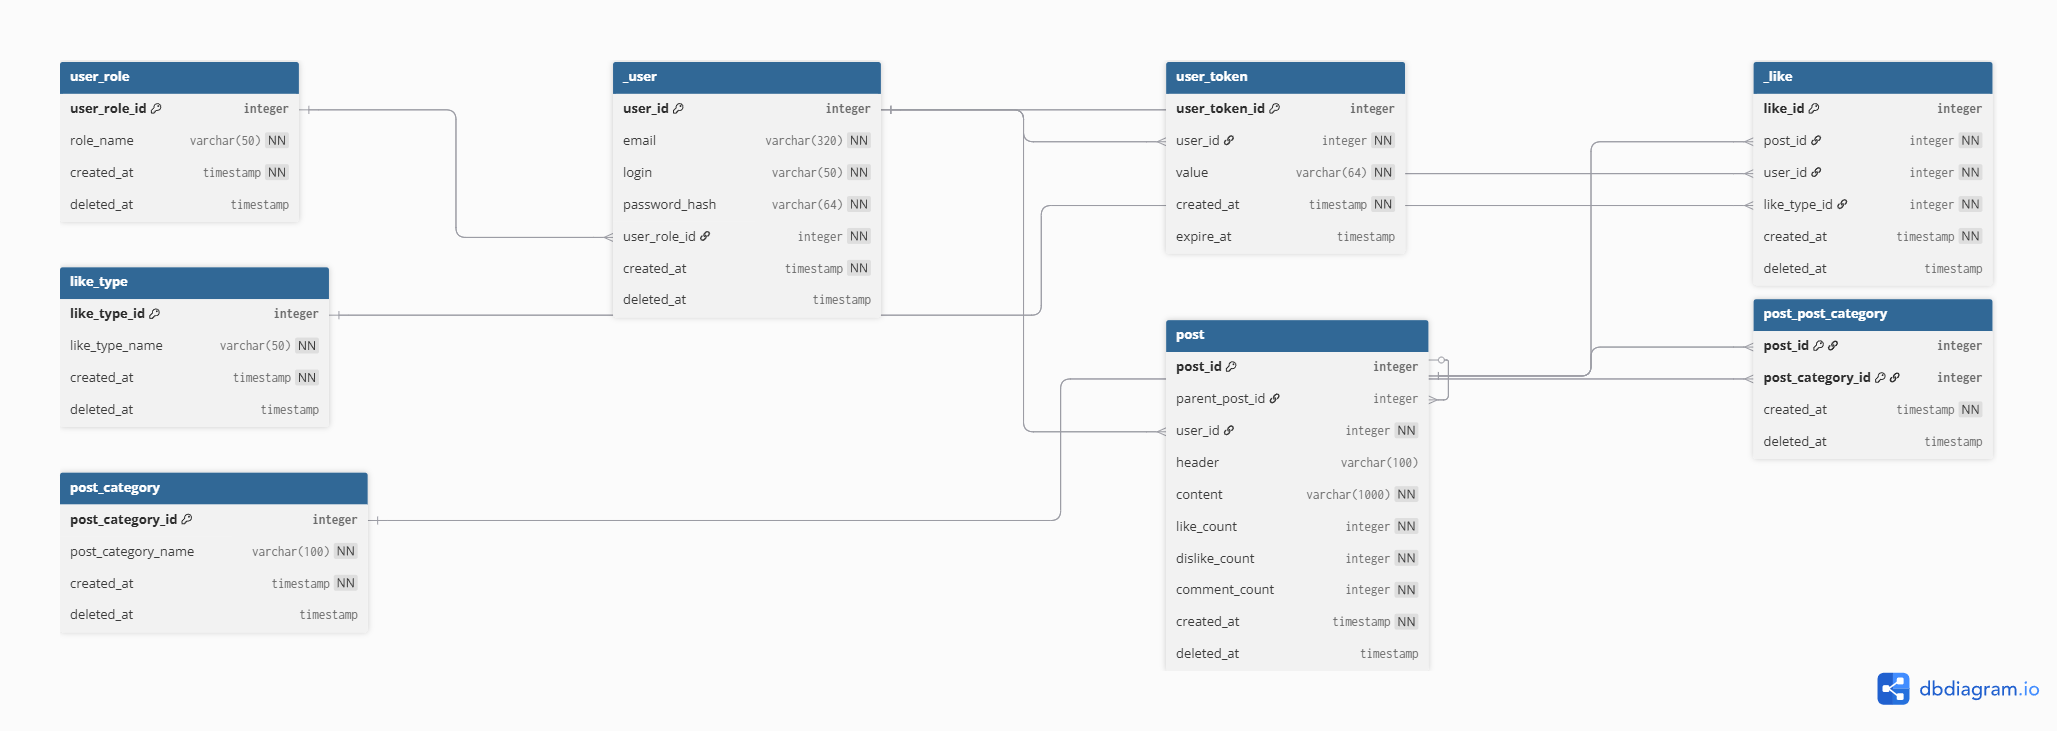
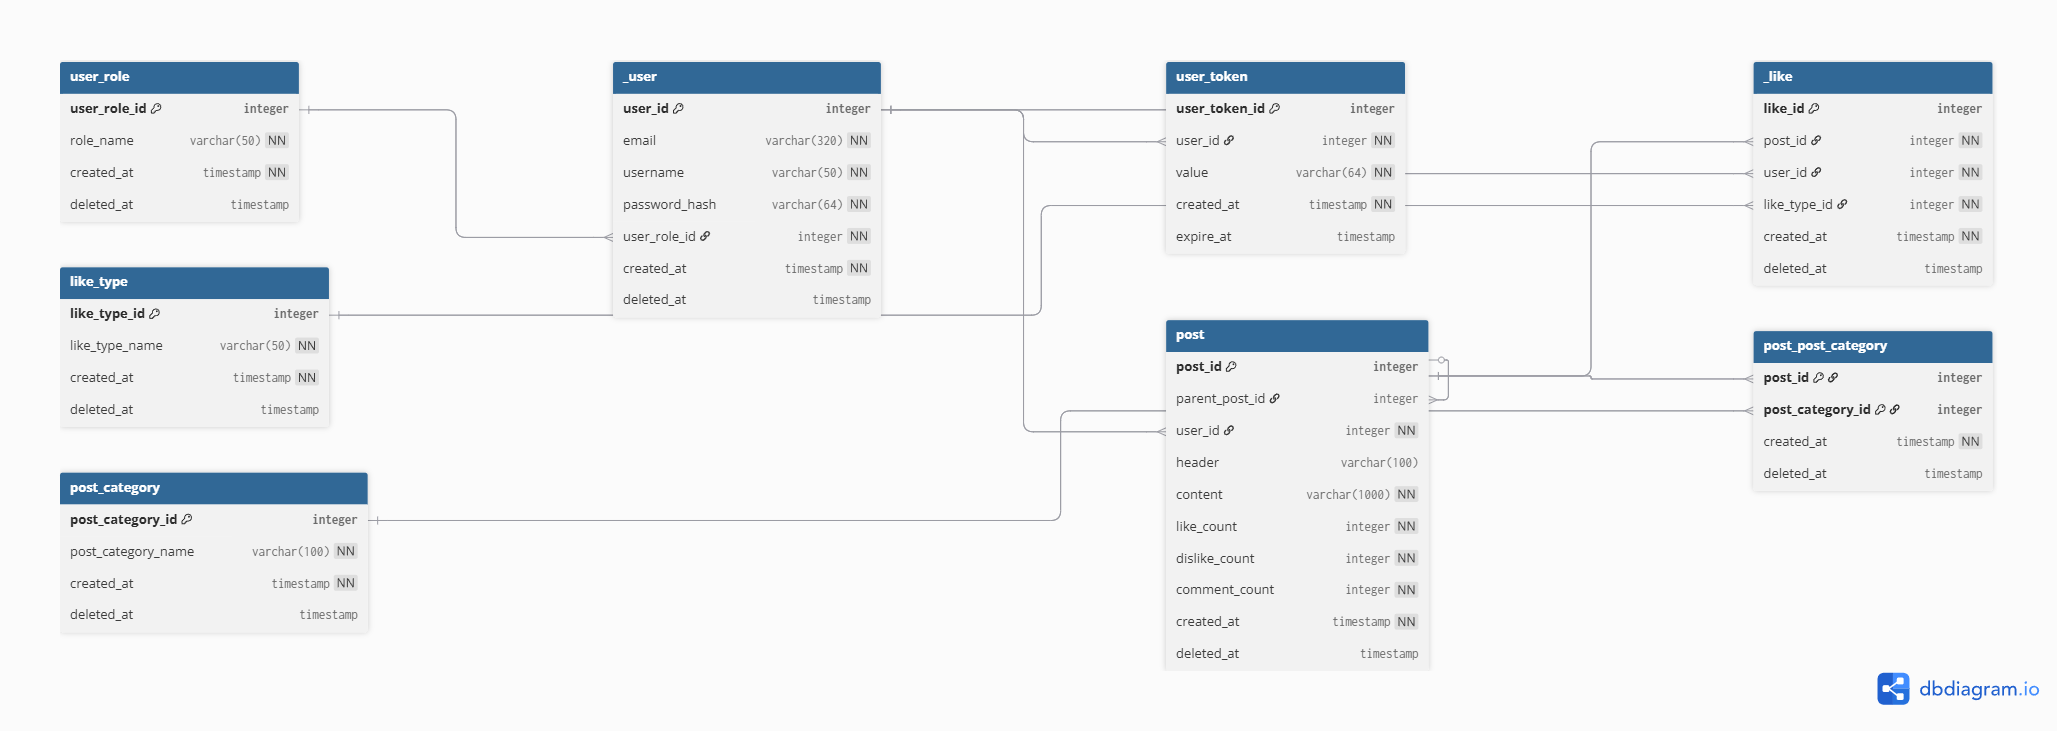
user repo pdo

Changed region(s): [[0.8401, 0.3912, 0.9956, 0.5718], [0.9334, 0.6019, 0.9645, 0.6621], [0.8401, 0.632, 0.8712, 0.6621]]

diff --git a/backend/src/Infrastructure/Repository/PDO/PDOUserRepository.php b/backend/src/Infrastructure/Repository/PDO/PDOUserRepository.php
@@ -9,8 +9,7 @@ use src\Domain\Entity\User;
 use src\Domain\Entity\Token;
 use src\Domain\Entity\UserRole;
 use src\Domain\Repository\UserRepositoryInterface;
-use src\Shared\Array\ArrayHelper;
-use src\Infrastructure\Repository\Dummy\DummyRepositoryHelper;
+use src\Interface\Mapper\TokenMapper;
 
 class PDOUserRepository implements UserRepositoryInterface
 {
@@ -21,46 +20,95 @@ class PDOUserRepository implements UserRepositoryInterface
 
     public function saveUser(User $user): void
     {
-
+        //insert
+        if(($id = $user->getId()) === null)
+        {
+            $sql = "INSERT INTO _user (email, username, password_hash, user_role_id) VALUES (:email, :username, :password_hash, :user_role_id);";
+            $stmt = $this->conn->prepare($sql);
+            $stmt->execute(["email" => $user->email, "username" => $user->getUsername(), "password_hash" => $user->getPasswordHash(), "user_role_id" => $user->role->value + 1]);
+        }
+        //update
+        else
+        {
+            $sql = "UPDATE _user SET username = :username, password_hash = :password_hash WHERE user_id = :user_id AND deleted_at IS NULL;";
+            $stmt = $this->conn->prepare($sql);
+            $stmt->execute(["username" => $user->getUsername(), "password_hash" => $user->getPasswordHash(), "user_id" => $id]);
+        }
     }
 
     /** @return User[]*/
     public function getAllUsers(): array
     {
-        return [];
+        $data = $this->conn->query("SELECT user_id, email, username, password_hash, user_role_id, UNIX_TIMESTAMP(created_at) AS created_at FROM _user WHERE deleted_at IS NULL;")->fetchAll(PDO::FETCH_ASSOC);
+
+        /** @var User[] $result */
+        $result = [];
+
+        foreach($data as $row)
+        {
+            $result[] = new User($row["user_id"], $row["username"], $row["email"], $row["password_hash"], UserRole::from($row["user_role_id"] - 1), $row["created_at"]);            
+        }
+
+        return $result;
     }
     public function getUserById(int $id): ?User
     {
-        return null;
-    }
-    public function getUserByUsername(string $username): ?User
-    {
-        return null;
+        $sql = "SELECT user_id, email, username, password_hash, user_role_id, UNIX_TIMESTAMP(created_at) AS created_at FROM _user WHERE user_id = :user_id AND deleted_at IS NULL;";
+        $stmt = $this->conn->prepare($sql);
+        $stmt->execute(["user_id" => $id]);
+        $data = $stmt->fetch(PDO::FETCH_ASSOC);
+
+        if(!$data) return null;
+        
+        return new User($data["user_id"], $data["username"], $data["email"], $data["password_hash"], UserRole::from($data["user_role_id"] - 1), $data["created_at"]);
     }
     public function getUserByEmail(string $email): ?User
     {
-        return null;
+        $sql = "SELECT user_id, email, username, password_hash, user_role_id, UNIX_TIMESTAMP(created_at) AS created_at FROM _user WHERE email = :email AND deleted_at IS NULL;";
+        $stmt = $this->conn->prepare($sql);
+        $stmt->execute(["email" => $email]);
+        $data = $stmt->fetch(PDO::FETCH_ASSOC);
+
+        if(!$data) return null;
+        
+        return new User($data["user_id"], $data["username"], $data["email"], $data["password_hash"], UserRole::from($data["user_role_id"] - 1), $data["created_at"]);
     }
 
     public function deleteUser(int $id): void
     {
-
+        $sql = "UPDATE _user SET deleted_at = NOW() WHERE user_id = :id AND deleted_at IS NULL;";
+        $stmt = $this->conn->prepare($sql);
+        $stmt->execute(["id" => $id]);
     }
 
     public function activateToken(Token $token): void
     {
         if($token->getId() !== null)
-            throw new LogicException("Token must be new token");
-        //save token
+            throw new LogicException("To save token, it must not be saved yet");
+        if(!$token->isActive())
+            throw new LogicException("To save token, it must be active");
+
+        $sql = "INSERT INTO user_token (user_id, `value`, created_at, expire_at) VALUES (:user_id, :token_value, FROM_UNIXTIME(:created_at), FROM_UNIXTIME(:expire_at));";
+        $stmt = $this->conn->prepare($sql);
+        $stmt->execute(["user_id" => $token->userId, "token_value" => $token->value,"created_at" => $token->createdAtTimeStamp, "expire_at" => $token->expireTimeStamp]);
     }
 
     public function deactivateTokensForUser(int $userId): void
     {
-
+        $sql = "UPDATE user_token SET is_active = 0 WHERE user_id = :id AND expire_at IS NULL || expire_at >= NOW();";
+        $stmt = $this->conn->prepare($sql);
+        $stmt->execute(["id" => $userId]);
     }
 
     public function getActiveTokenByValue(string $tokenValue): ?Token
     {
-        return null;
+        $sql = "SELECT user_token_id, user_id, `value`, UNIX_TIMESTAMP(created_at) AS expire_at, UNIX_TIMESTAMP(expire_at) AS expire_at FROM user_token WHERE `value` = :token_value AND (expire_at IS NULL OR expire_at >= NOW()) AND is_active = 1;";
+        $stmt = $this->conn->prepare($sql);
+        $stmt->execute(["token_value" => $tokenValue]);
+        $data = $stmt->fetch(PDO::FETCH_ASSOC);
+
+        if(!$data) return null;
+        
+        return new Token($data["user_token_id"], $data["user_id"], $data["value"], $data["created_at"], $data["expire_at"]);
     }
 }

diff --git a/backend/public/index.php b/backend/public/index.php
@@ -35,6 +35,7 @@ use src\Infrastructure\Repository\Dummy\DummyPostRepository;
 use src\Infrastructure\Repository\Dummy\DummyUserRepository;
 use src\Infrastructure\Repository\PDO\PDOCategoryRepository;
 use src\Infrastructure\Repository\PDO\PDOLikeRepository;
+use src\Infrastructure\Repository\PDO\PDOUserRepository;
 use src\Interface\Controller\CategoryController;
 use src\Interface\Controller\LikeController;
 use src\Interface\Controller\PostController;
@@ -55,7 +56,7 @@ catch(Throwable $e)
     ExceptionHandler::handle($e);
 }
 
-$userRepository = new DummyUserRepository();
+$userRepository = new PDOUserRepository($connection);
 $postRepository = new DummyPostRepository();
 $likeRepository = new PDOLikeRepository($connection);
 $categoryRepository = new PDOCategoryRepository($connection);

diff --git a/backend/src/Infrastructure/Repository/Dummy/DummyUserRepository.php b/backend/src/Infrastructure/Repository/Dummy/DummyUserRepository.php
@@ -59,15 +59,6 @@ class DummyUserRepository implements UserRepositoryInterface
     {
         return DummyRepositoryHelper::getEntityById($id, $this->users);
     }
-    public function getUserByUsername(string $username): ?User
-    {
-        return ArrayHelper::find($this->users,
-            function(User $user) use($username)
-            {
-                return $user->getUsername() === $username;
-            }
-        );
-    }
     public function getUserByEmail(string $email): ?User
     {
         return ArrayHelper::find($this->users,

diff --git a/backend/src/Application/Service/User/UserLoginService.php b/backend/src/Application/Service/User/UserLoginService.php
@@ -25,7 +25,7 @@ class UserLoginService
         if($user === null || !$user->isPasswordCorrect($DTO->password))
             throw new BusinessException("Invalid credentials email: $DTO->email password: " . User::hidePassword($DTO->password), 401);
 
-        $token = new Token(null, $user->getId(), $DTO->token, time() + Token::$tokenDurationS);
+        $token = new Token(null, $user->getId(), $DTO->token, time() + Token::$tokenDurationS, time());
         $this->userRepo->activateToken($token);
     }
 }

diff --git a/backend/src/Domain/Entity/Token.php b/backend/src/Domain/Entity/Token.php
@@ -25,10 +25,11 @@ class Token extends Entity
         int $userId,
         string $value,
         ?int $expireTimeStamp = null,
+        ?int $createdTimeStamp = null,
         bool $isActive = true
     )
     {
-        parent::__construct($id, ($expireTimeStamp !== null) ? $expireTimeStamp - self::$tokenDurationS: null);
+        parent::__construct($id, $createdTimeStamp);
 
         if($userId < 0)
             throw new InvalidArgumentException("user: $userId id must not be negative");

diff --git a/backend/src/Domain/Repository/UserRepositoryInterface.php b/backend/src/Domain/Repository/UserRepositoryInterface.php
@@ -12,7 +12,6 @@ interface UserRepositoryInterface
     /** @return User[]*/
     public function getAllUsers(): array;
     public function getUserById(int $id): ?User;
-    public function getUserByUsername(string $username): ?User;
     public function getUserByEmail(string $email): ?User;
 
     public function deleteUser(int $id): void;

diff --git a/backend/src/Domain/Entity/User.php b/backend/src/Domain/Entity/User.php
@@ -74,6 +74,10 @@ class User extends Entity
         $this->username = $username;
     }
 
+    public function getPasswordHash(): string
+    {
+        return $this->passwordHash;
+    }
     public function setPassword(string $password): void
     {
         $password = trim($password);

diff --git a/backend/src/Interface/Controller/UserContoller.php b/backend/src/Interface/Controller/UserContoller.php
@@ -205,7 +205,7 @@ class UserContoller
 
         try
         {
-            if(!is_int($userId))
+            if(!is_numeric($userId))
                 throw new RequestDataFormatException("userId", "int", true);
             $userId = intval($userId);
 
